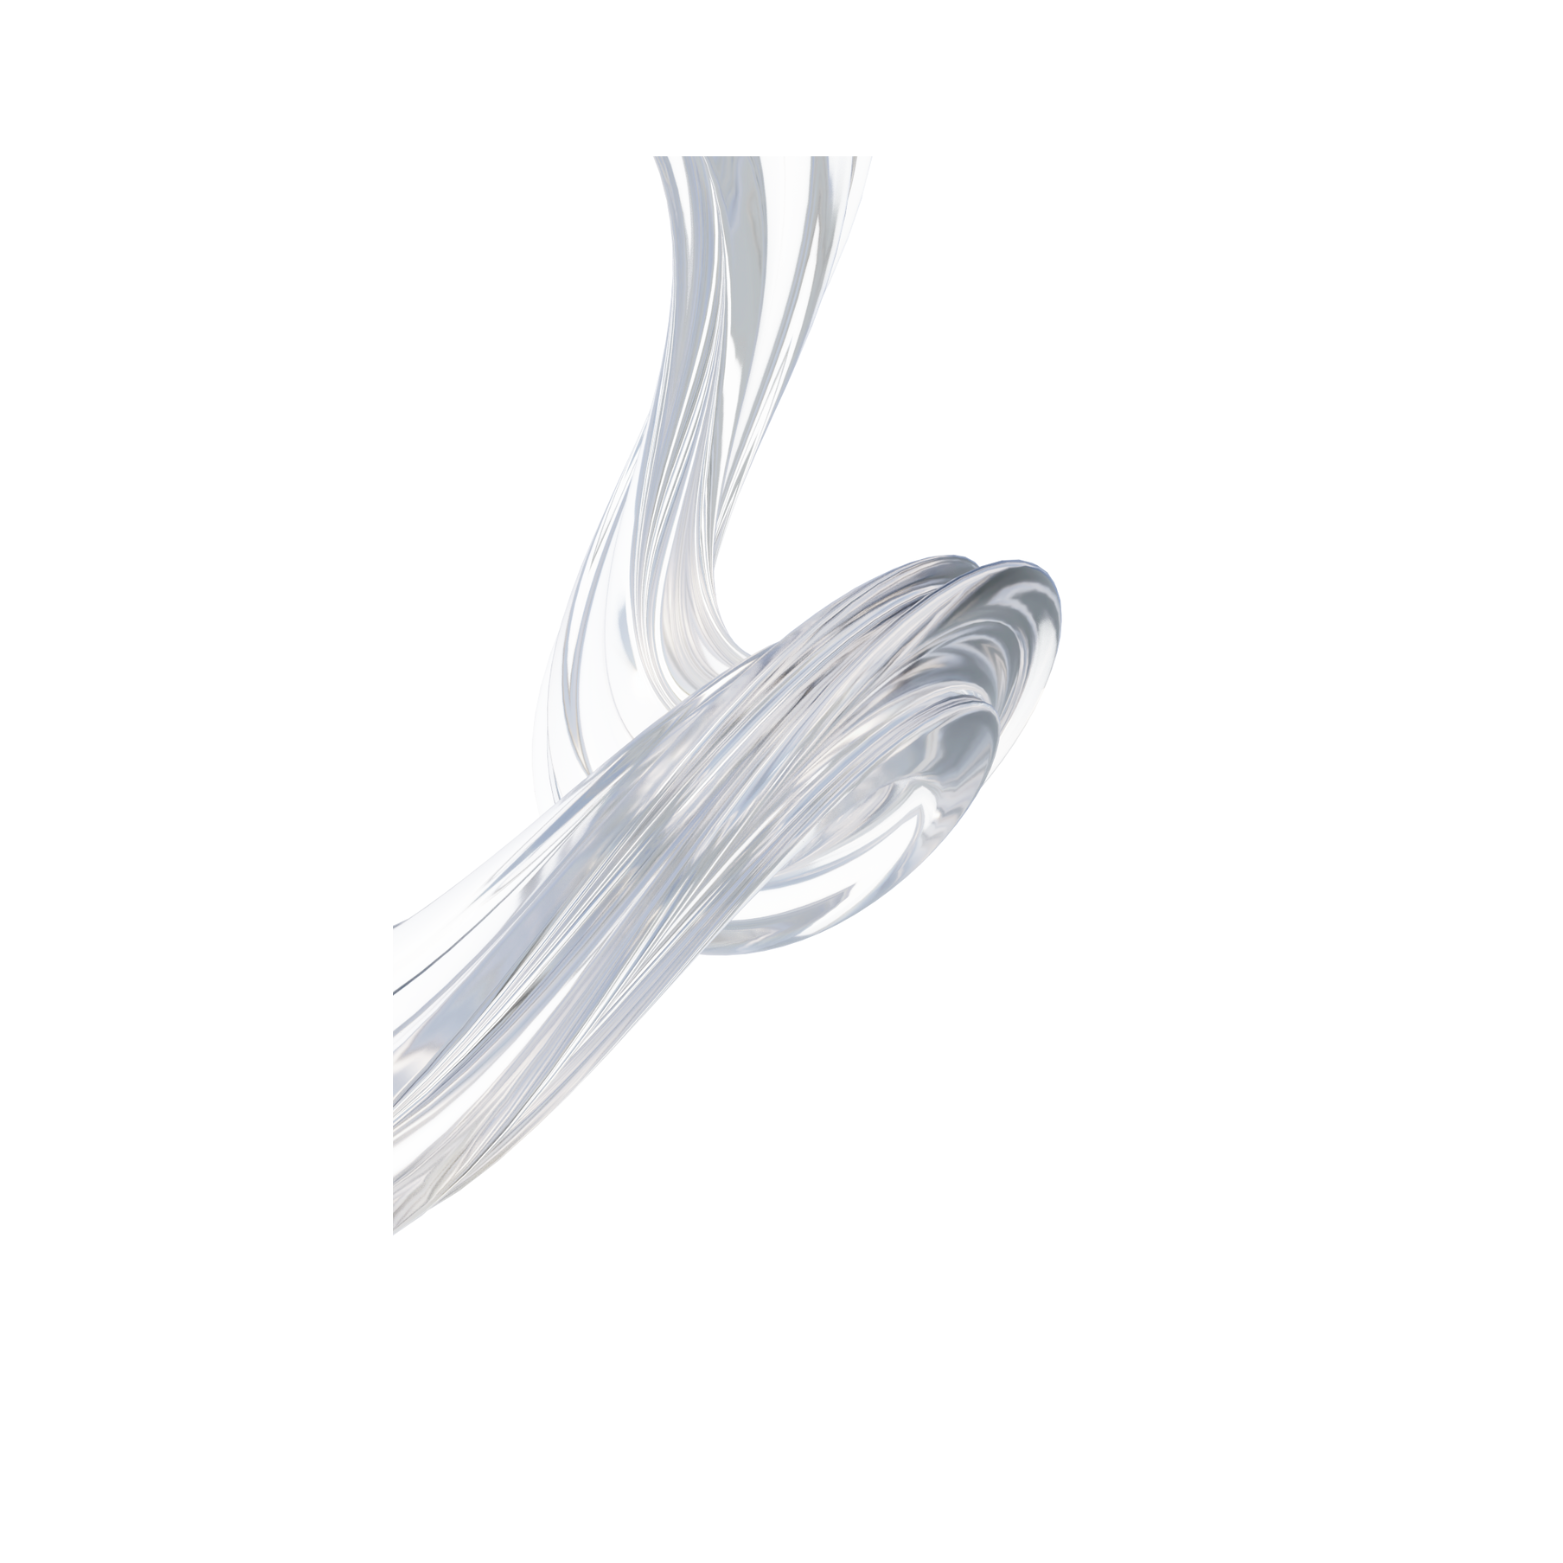
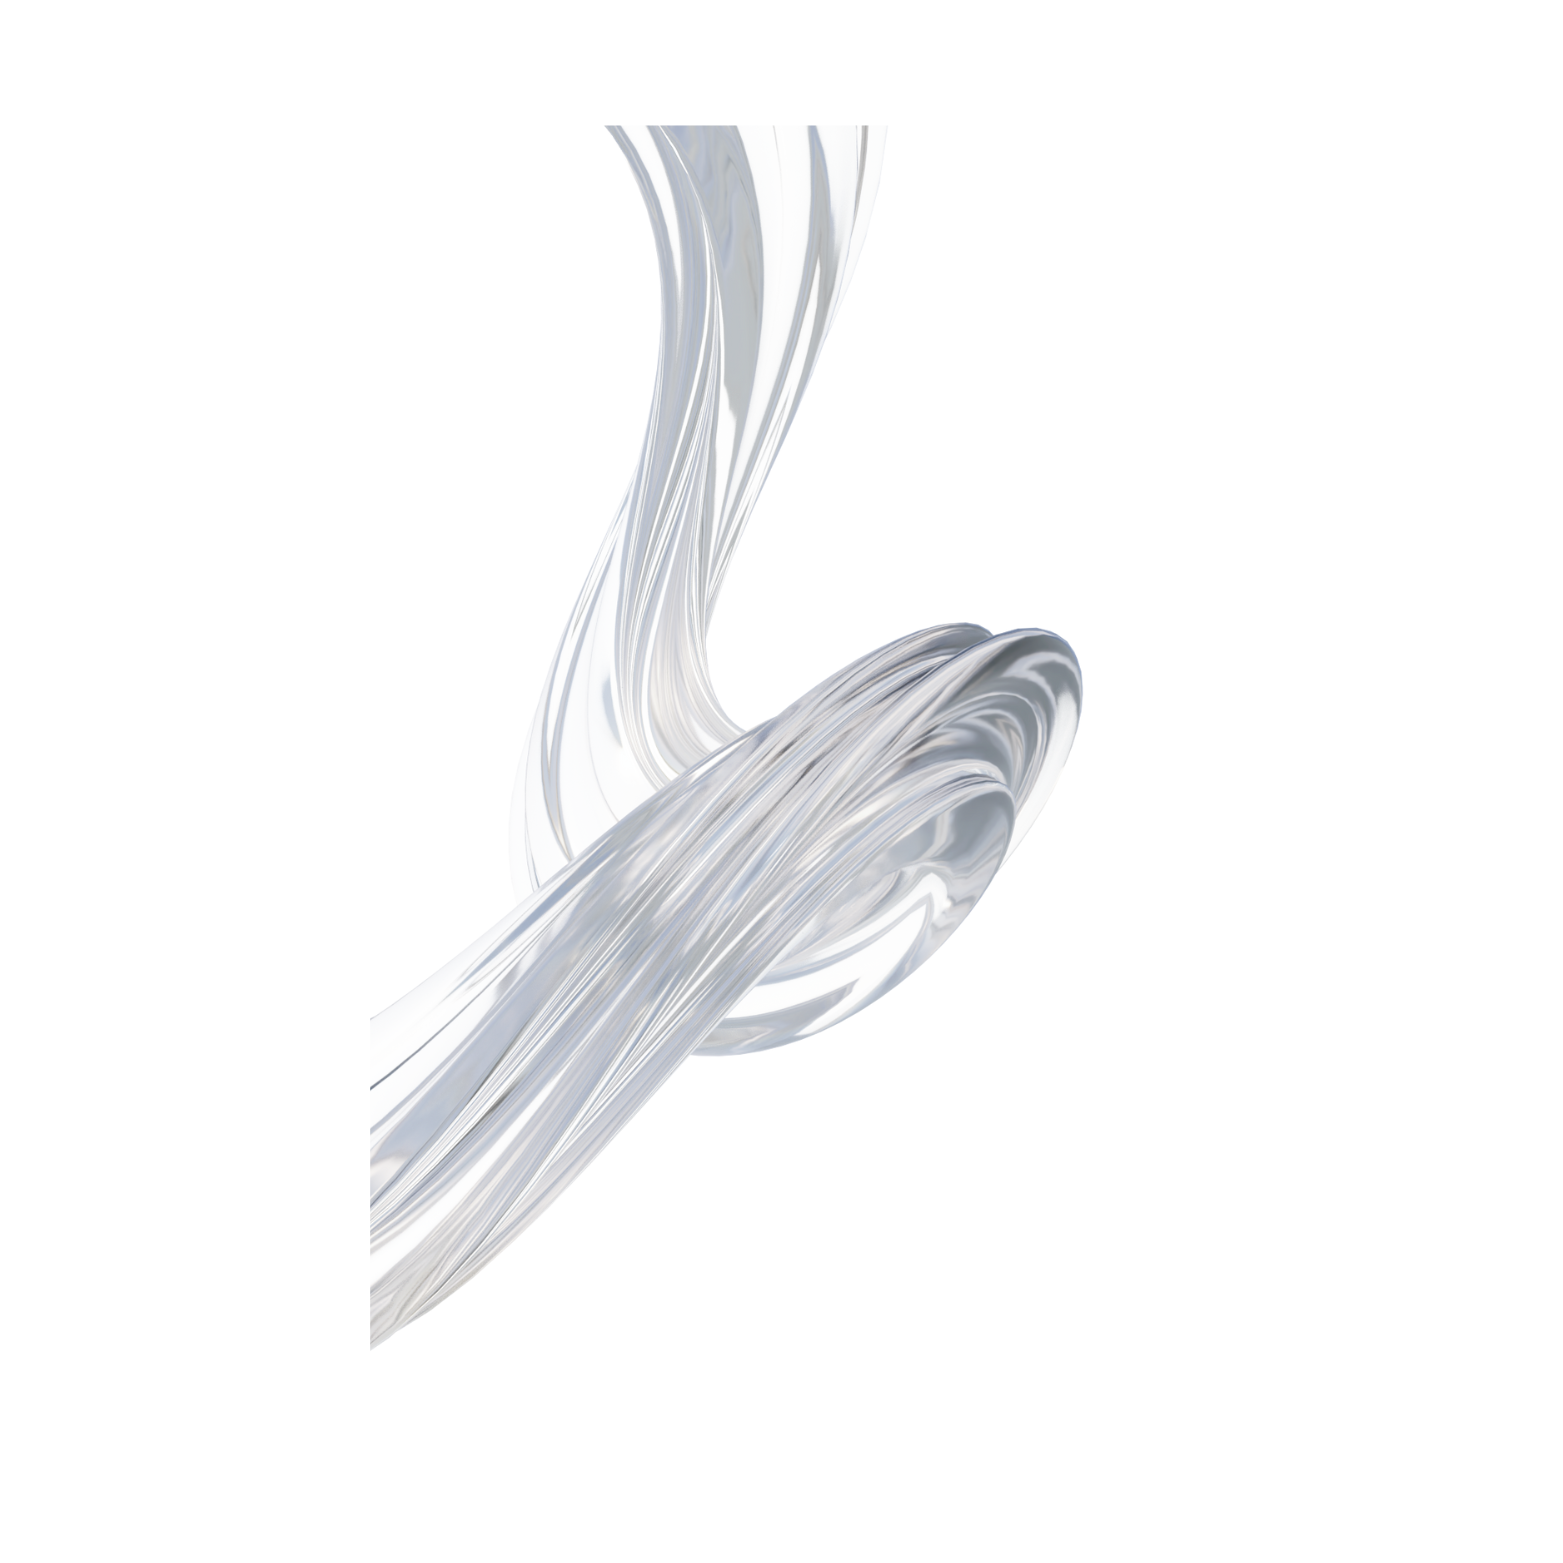
Cambios imagenes

Changed region(s): [[0.215, 0.0614, 0.7063, 0.8599]]

diff --git a/css/style.css b/css/style.css
@@ -212,7 +212,7 @@ body.index-page .nav-link:hover {
 .bg-right {
     background-image: url('../images/hilosDcha.png');
     background-position: right center;
-    bottom: -40%;
+    bottom: -50%;
     right: -15%;
     width: 100%;
     height: 100%;
